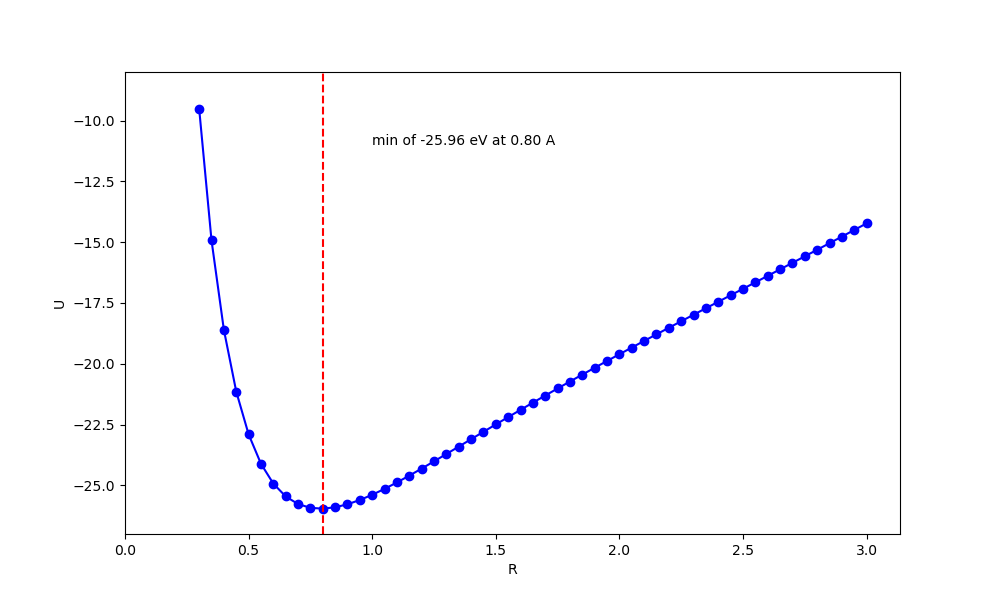
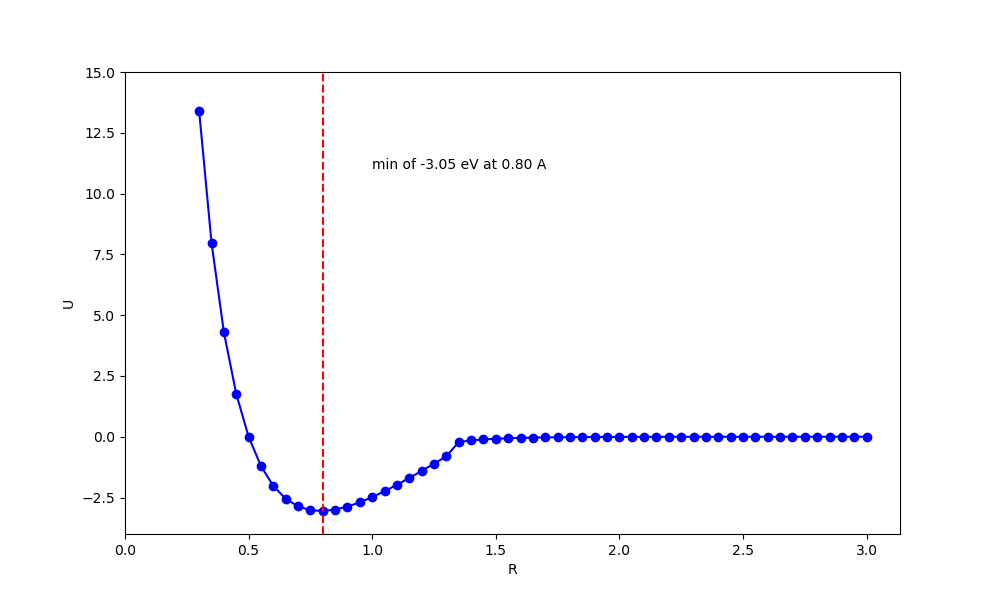
EFF initial position fixes

diff --git a/2_eff/graph.py b/2_eff/graph.py
@@ -15,8 +15,11 @@ for r in rs:
             line = data.readline()
         line = data.readline()
         # line = s[84]
-        energy = float(line.split()[1]) * 0.043  # convertion from kcal/mol to eV
+        energy = float(line.split()[2]) * 0.043  # convertion from kcal/mol to eV
         es.append(energy)
+
+es = np.array(es)
+es -= es[-1]
 
 mini = np.argmin(es)
 minr = rs[mini]
@@ -26,12 +29,12 @@ fig = plt.figure(figsize=(10, 6))
 plt.tight_layout()
 plt.plot(rs, es, "bo")
 plt.plot(rs, es, "b-")
-plt.vlines(minr, -27, -8, "red", "dashed")
+plt.vlines(minr, -4, 15, "red", "dashed")
 plt.ylabel("U")
 plt.xlabel("R")
-plt.text(minr + 0.2, -11, f"min of {mine:.2f} eV at {minr:.2f} A")
+plt.text(minr + 0.2, 11, f"min of {mine:.2f} eV at {minr:.2f} A")
 plt.xlim(left=0.0)
-plt.ylim((-27, -8))
+plt.ylim((-4,15))
 # plt.axes().xaxis.set_minor_locator(MultipleLocator(5))
 plt.savefig("graph.png")
 plt.show()
